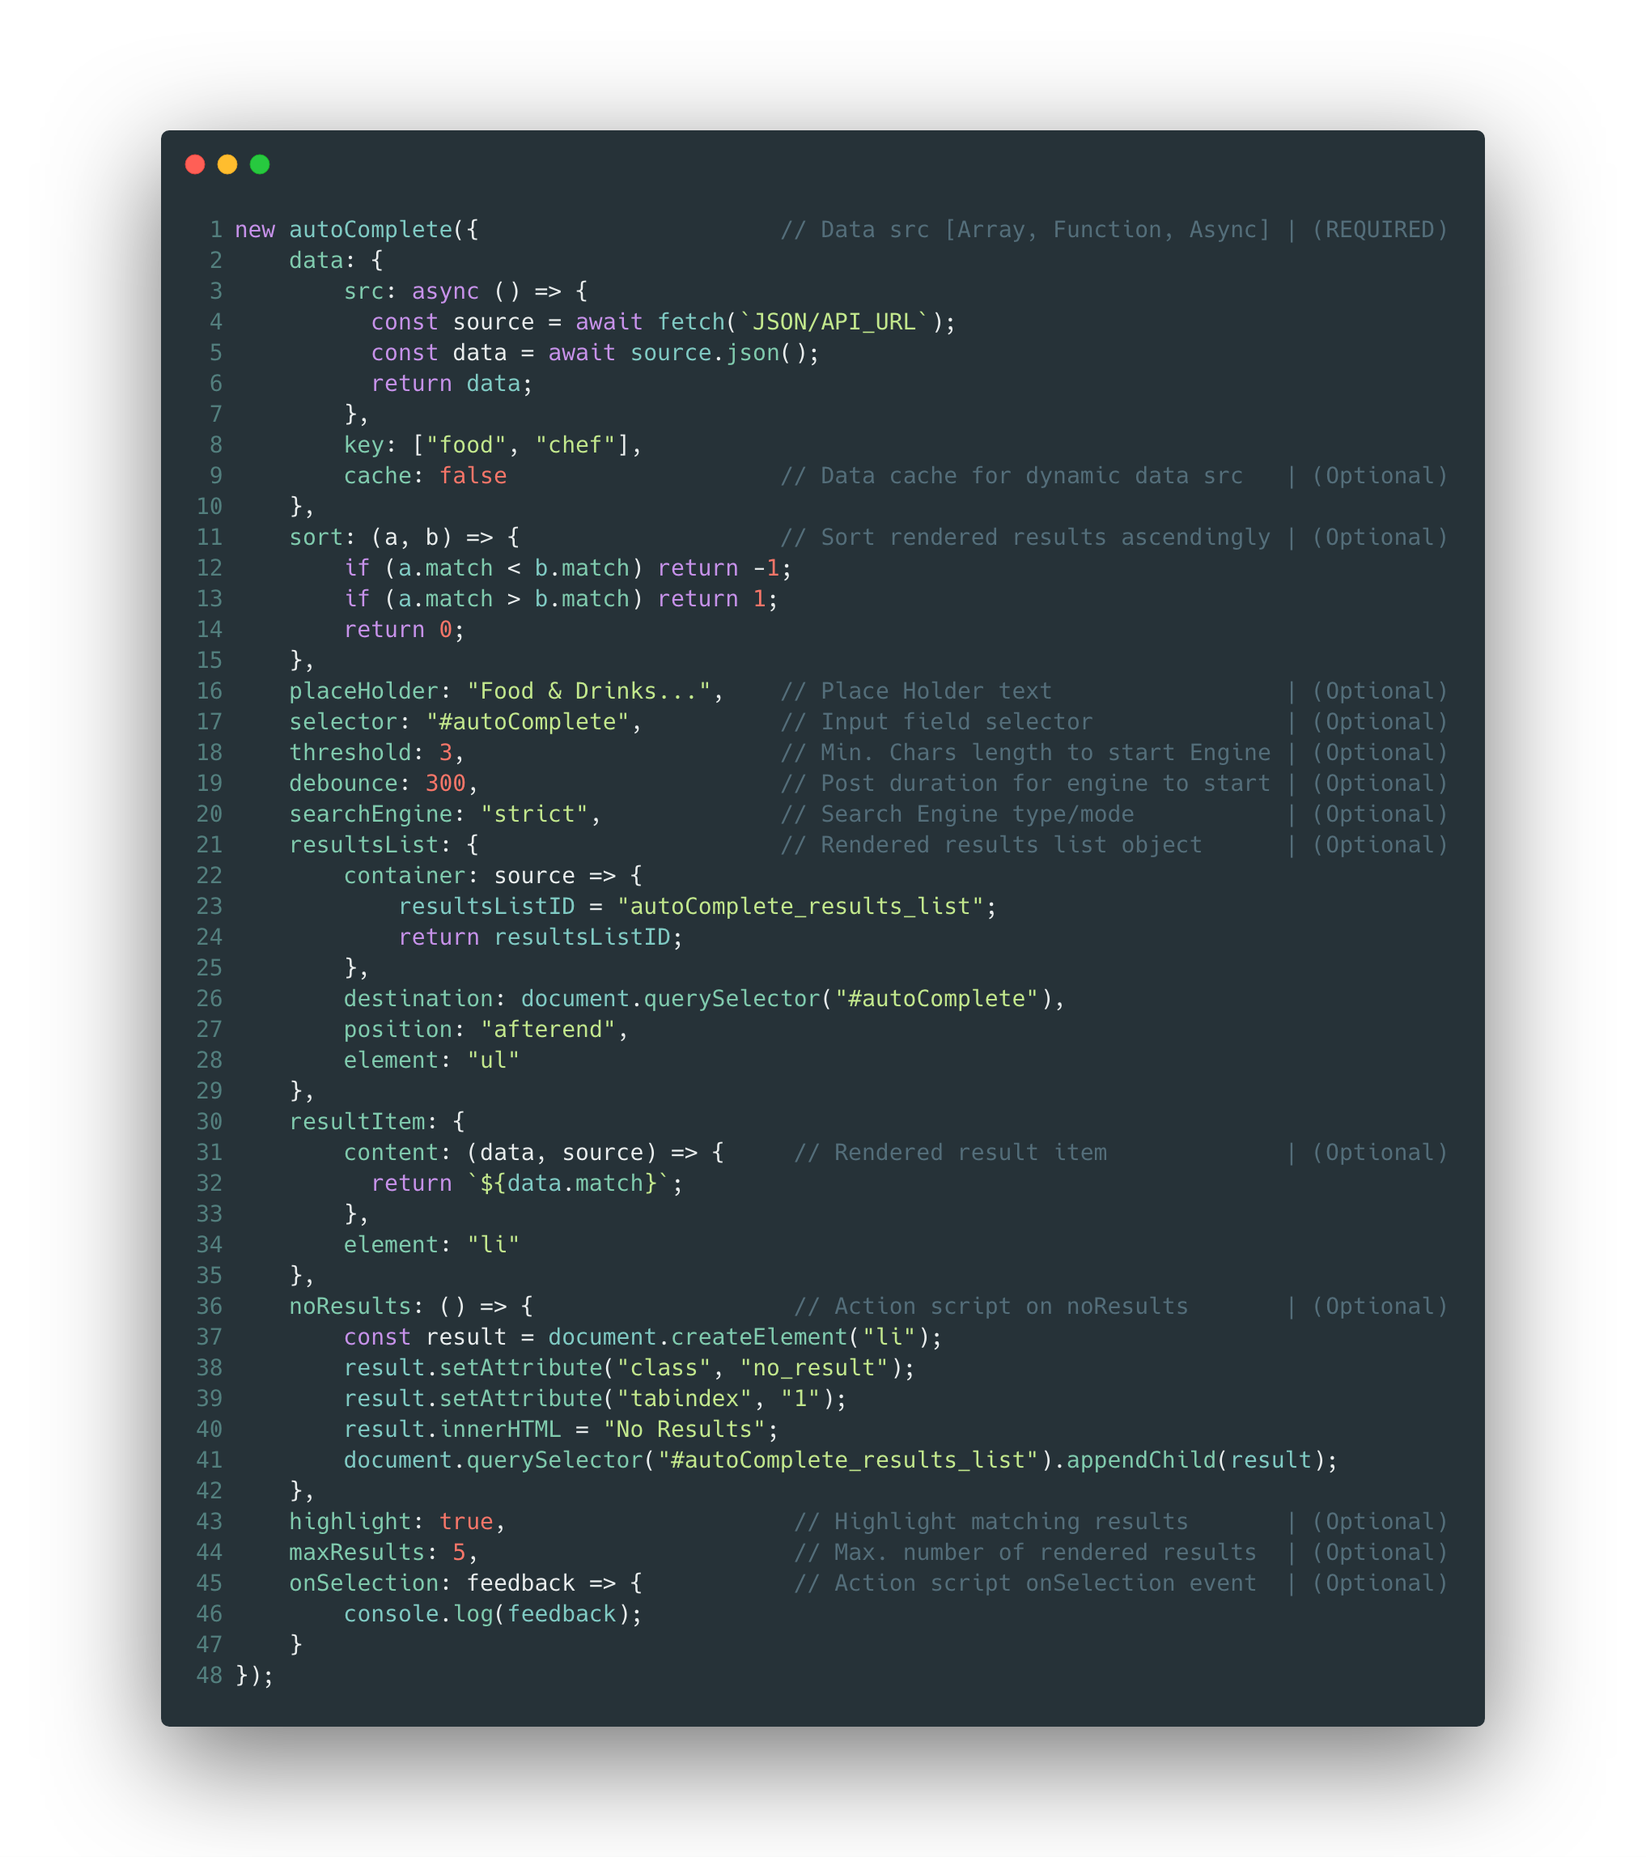
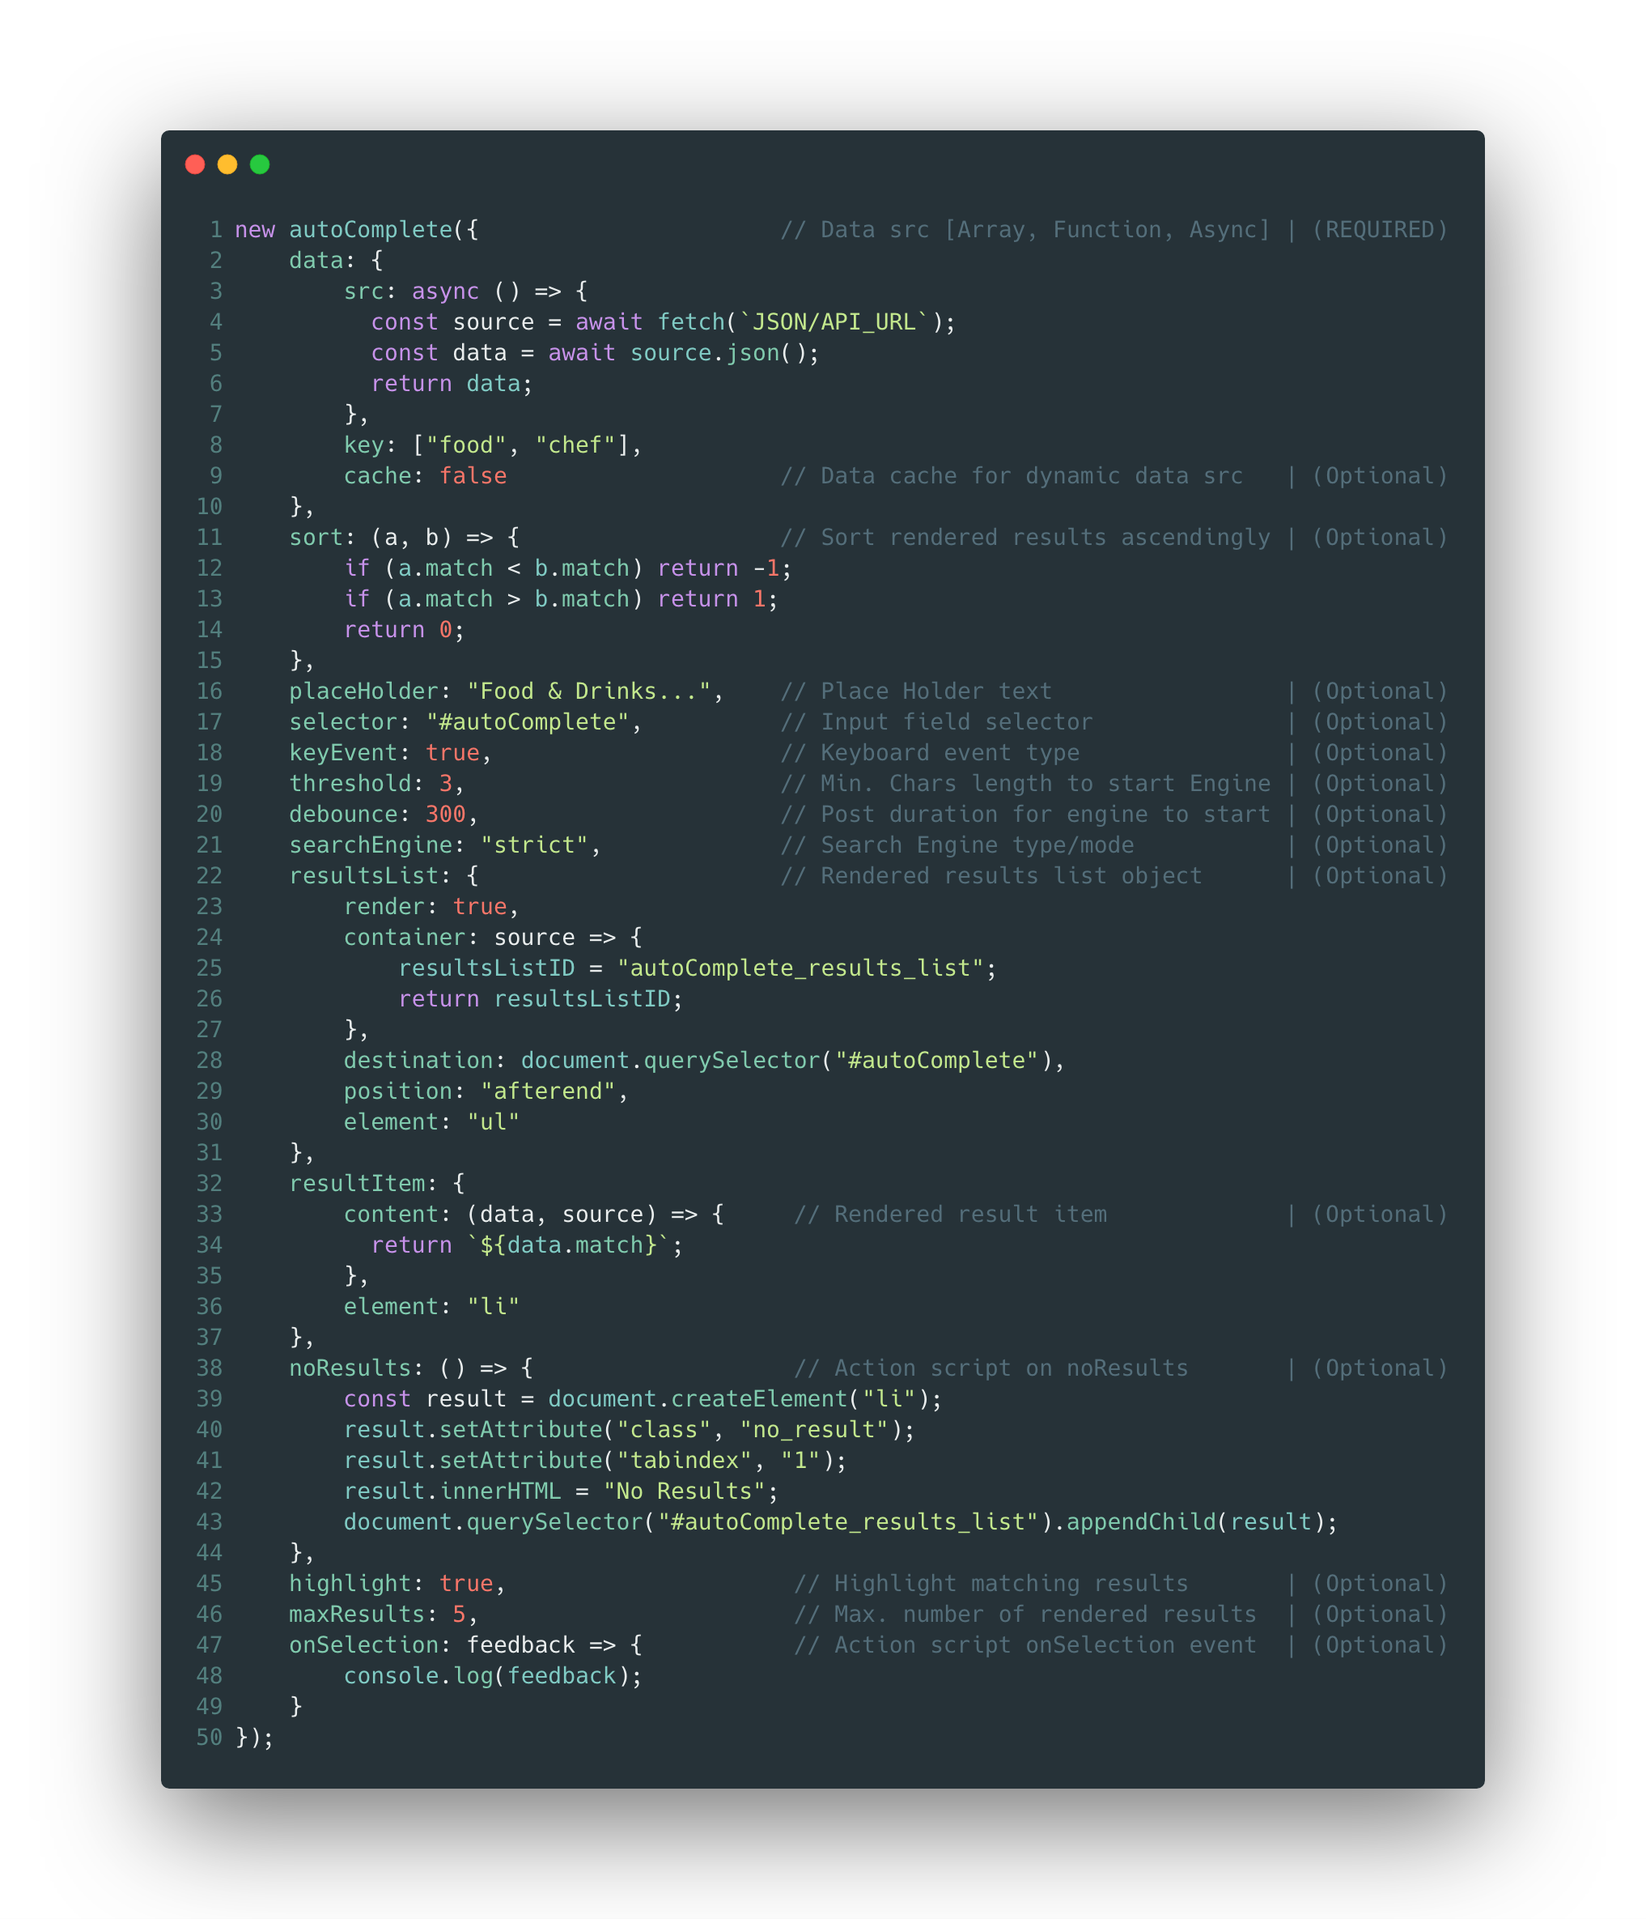
Version 6.0.0 => Preparations

diff --git a/docs/demo/index.html b/docs/demo/index.html
@@ -53,7 +53,7 @@
 		<meta name="msapplication-TileColor" content="#ffffff">
 		<meta name="msapplication-TileImage" content="/ms-icon-144x144.png">
 		<meta name="theme-color" content="#ffffff">
-		<link rel="stylesheet" type="text/css" media="screen" href="https://cdn.jsdelivr.net/npm/@tarekraafat/autocomplete.js@5.2.0/dist/css/autoComplete.min.css">
+		<link rel="stylesheet" type="text/css" media="screen" href="https://cdn.jsdelivr.net/npm/@tarekraafat/autocomplete.js@5.3.0/dist/css/autoComplete.min.css">
 		<link rel="stylesheet" type="text/css" media="screen" href="./css/main.css">
 		<link href="https://fonts.googleapis.com/css?family=PT+Sans" rel="stylesheet">
 	</head>
@@ -118,7 +118,7 @@
 				</div>
 			</footer>
 		</div>
-		<script src="https://cdn.jsdelivr.net/npm/@tarekraafat/autocomplete.js@5.2.0/dist/js/autoComplete.min.js"></script>
+		<script src="https://cdn.jsdelivr.net/npm/@tarekraafat/autocomplete.js@5.3.0/dist/js/autoComplete.min.js"></script>
 		<script src="./js/index.js"></script>
 	</body>
 

diff --git a/src/models/autoComplete.js b/src/models/autoComplete.js
@@ -20,7 +20,7 @@ export default class autoComplete {
     // Minimum duration for API calls debouncing
     this.debounce = config.debounce || 0;
     // Keyboard event type
-    this.keyBoardEvent = config.keyBoardEvent || "keyup";
+    this.keyEvent = config.keyEvent || "keydown";
     // Rendered results destination
     this.resultsList = {
       render: config.resultsList && config.resultsList.render ? config.resultsList.render : false,
@@ -299,7 +299,7 @@ export default class autoComplete {
     };
 
     // Input field handler fires an event onKeyup action
-    input.addEventListener(this.keyBoardEvent, debounce((event) => {
+    input.addEventListener(this.keyEvent, debounce((event) => {
       // If data src NOT to be cached
       // then we should invoke its function again
       if (!this.data.cache) {

diff --git a/dist/js/index.js b/dist/js/index.js
@@ -14,7 +14,7 @@ const autoCompletejs = new autoComplete({
       // Returns Fetched data
       return data;
     },
-    key: ["food", "cities", "animals"]
+    key: ["food", "cities", "animals"],
   },
   sort: (a, b) => {
     if (a.match < b.match) return -1;
@@ -23,7 +23,7 @@ const autoCompletejs = new autoComplete({
   },
   placeHolder: "Food & Drinks",
   selector: "#autoComplete",
-  keyBoardEvent: "keydown",
+  keyEvent: "keydown",
   threshold: 0,
   debounce: 0,
   searchEngine: "strict",

diff --git a/docs/README.md b/docs/README.md
@@ -7,7 +7,7 @@
 [![](https://data.jsdelivr.com/v1/package/gh/TarekRaafat/autoComplete.js/badge)](https://www.jsdelivr.com/package/gh/TarekRaafat/autoComplete.js)
 [![](https://data.jsdelivr.com/v1/package/npm/@tarekraafat/autocomplete.js/badge)](https://www.jsdelivr.com/package/npm/@tarekraafat/autocomplete.js)
 ![\[Zero Dependencies\]()](https://img.shields.io/badge/Dependencies-0-blue.svg)
-![\[Size\]()](https://img.shields.io/badge/Size-5%20KB-green.svg)
+![\[Size\]()](https://img.shields.io/badge/Size-6%20KB-green.svg)
 [![Open Source Love](https://badges.frapsoft.com/os/v1/open-source.svg?v=103)](https://github.com/TarekRaafat/autoComplete.js)
 
 <br>
@@ -15,7 +15,7 @@
 
 <h1>autoComplete.js</h1>
 
-> Simple autocomplete pure vanilla Javascript library. <a href="https://tarekraafat.github.io/autoComplete.js/demo/" target="\_blank">:rocket: Live Demo</a> **v5.2**
+> Simple autocomplete pure vanilla Javascript library. <a href="https://tarekraafat.github.io/autoComplete.js/demo/" target="\_blank">:rocket: Live Demo</a> **v6.0**
 
 autoComplete.js is a simple pure vanilla Javascript library that's progressively designed for speed, high versatility and seamless integration with wide range of projects & systems, made for users and developers in mind.
 
@@ -68,13 +68,13 @@ npm run build
 `CSS`
 
 ```html
-<link rel="stylesheet" href="https://cdn.jsdelivr.net/npm/@tarekraafat/autocomplete.js@5.2.0/dist/css/autoComplete.min.css">
+<link rel="stylesheet" href="https://cdn.jsdelivr.net/npm/@tarekraafat/autocomplete.js@6.0.0/dist/css/autoComplete.min.css">
 ```
 
 `JS`
 
 ```html
-<script src="https://cdn.jsdelivr.net/npm/@tarekraafat/autocomplete.js@5.2.0/dist/js/autoComplete.min.js"></script>
+<script src="https://cdn.jsdelivr.net/npm/@tarekraafat/autocomplete.js@6.0.0/dist/js/autoComplete.min.js"></script>
 ```
 
 -   <img src="https://cdn0.iconfinder.com/data/icons/HTML5/512/HTML_Logo.png" alt="HTML" width="40px"> HTML Local load
@@ -122,7 +122,7 @@ const autoComplete = require("@tarekraafat/autocomplete.js/dist/js/autoComplete"
 ```html
 <link rel="stylesheet" href="./css/autoComplete.css">
 OR
-<link rel="stylesheet" href="https://cdn.jsdelivr.net/npm/@tarekraafat/autocomplete.js@5.2.0/dist/css/autoComplete.min.css">
+<link rel="stylesheet" href="https://cdn.jsdelivr.net/npm/@tarekraafat/autocomplete.js@6.0.0/dist/css/autoComplete.min.css">
 ```
 
 2.  Assign the default `id` value `"autoComplete"` to the desired input field or use any custom `id/class` and configure the API selector accordingly in `Step 4`
@@ -137,7 +137,7 @@ OR
 <script src="./js/autoComplete.min.js"></script>
 <script src="./js/index.js"></script>
 OR
-<script src="https://cdn.jsdelivr.net/npm/@tarekraafat/autocomplete.js@5.2.0/dist/js/autoComplete.min.js"></script>
+<script src="https://cdn.jsdelivr.net/npm/@tarekraafat/autocomplete.js@6.0.0/dist/js/autoComplete.min.js"></script>
 <script src="./js/index.js"></script>
 ```
 
@@ -165,11 +165,13 @@ new autoComplete({
 	    return 0;
     },
 	placeHolder: "Food & Drinks...",	 // Place Holder text 				| (Optional)
-	selector: "#autoComplete",		   // Input field selector 			 | (Optional)
+    selector: "#autoComplete",		   // Input field selector 			 | (Optional)
+    keyEvent: "keydown",				 // Keyboard event type			   | (Optional)
 	threshold: 3,						// Min. Chars length to start Engine | (Optional)
 	debounce: 300,					   // Post duration for engine to start | (Optional)
 	searchEngine: "strict",			  // Search Engine type/mode 		  | (Optional)
-	resultsList: {					   // Rendered results list object 	 | (Optional)
+    resultsList: {					   // Rendered results list object 	 | (Optional)
+        render: true,
 		container: source => {
 			resultsListID = "food_List";
 			return resultsListID;
@@ -178,14 +180,21 @@ new autoComplete({
 		position: "afterend",
 		element: "ul"
 	},
+	maxResults: 5,						 // Max. number of rendered results | (Optional)
+	highlight: true,					   // Highlight matching results 	 | (Optional)
 	resultItem: {	  					// Rendered result item 		   | (Optional)
 		content: (data, source) => {
 			return `${data.match}`;
 		},
 		element: "li"
-	},
-	highlight: true,					   // Highlight matching results 	 | (Optional)
-	maxResults: 5,						 // Max. number of rendered results | (Optional)
+    },
+    noResults: () => {					 // Action script on noResults 	 | (Optional)
+        const result = document.createElement("li");
+        result.setAttribute("class", "no_result");
+        result.setAttribute("tabindex", "1");
+        result.innerHTML = "No Results";
+        document.querySelector("#autoComplete_results_list").appendChild(result);
+    },
 	onSelection: feedback => {			 // Action script onSelection event | (Optional)
 		console.log(feedback.selection.value.image_url);
 	}
@@ -202,10 +211,11 @@ new autoComplete({
 | `sort`         | Sort rendered results                                            | `Function`                                                                                                                                                                                                                                                                                                             | Blank / Empty **(Random Results)**                                                                         |
 | `placeHolder`  | Place Holder text                                                | `String`                                                                                                                                                                                                                                                                                                               | Blank / Empty                                                                                              |
 | `selector`     | Input field selector                                             | **-** `String` `id`/`class` <br>**OR**<br> **-** `Function` ( ) =>  `document.querySelector("")`                                                                                                                                                                                                                       | `"#autoComplete"`                                                                                          |
+| `keyEvent`     | Keyboard event type | **-** `String` <br> <br> `"keydown"` or `"keypress"` or `"keyup"` | `"keydown"` |
 | `threshold`    | Minimum characters length before engine starts rendering results | `Number`                                                                                                                                                                                                                                                                                                               | `0`                                                                                                        |
 | `debounce`    | Minimum duration after typing idle state for engine to kick in | `Number` <br> Milliseconds value <br> debounce: `300`         | `0`                                                                                                        |
 | `searchEngine` | Search Engine Type/Mode                                          | **-** `"strict"` lowerCase string<br>**OR**<br>**-** `"loose"` lowerCase string                                                                                                                                                                                                                                        | `"strict"`                                                                                                 |
-| `resultsList`  | Rendered results list destination,  position & element                    | **-** `Object` with 4 methods<br> 1- container: <br> `Function` (source) => `id`<br> 2- destination: `document.querySelector("#div")`<br> 3- position:<br> `"beforebegin"`, `"afterbegin"`, `"beforeend"`, `"afterend"` lowerCase string <br>**OR**<br>**-** `Function` ( ) => `{destination: "...", position: "..."}` <br> 4- element: <br> `"ul", "span", "div" or Custom`| `{container: (source) => { }, destination: document.querySelector("#autoComplete"), position: "afterend", element: "ul"}` |
+| `resultsList`  | Rendered results list destination,  position & element                    | **-** `Object` with 5 methods<br> 1- render: `Boolean` <br> 2- container: <br> `Function` (source) => `id`<br> 3- destination: `document.querySelector("#div")`<br> 4- position:<br> `"beforebegin"`, `"afterbegin"`, `"beforeend"`, `"afterend"` lowerCase string <br>**OR**<br>**-** `Function` ( ) => `{destination: "...", position: "..."}` <br> 5- element: <br> `"ul", "span", "div" or Custom`| `{container: (source) => { }, destination: document.querySelector("#autoComplete"), position: "afterend", element: "ul"}` |
 | `resultItem`   | Rendered result Item content & element                                          | **-** `Object` with 2 methods<br> 1- content: <br>**-** `Function` (data, source) => `String` <br> **-** `data.match` has to be used for **Highlighted** result <br> 2- element: <br> `"li", "span", "div" or Custom`                | `{content: (data, source) => data.match, element: "li"}`                                                                                               |
 | `noResults`   | Action script on noResults found | `Function` | No Action |
 | `highlight`    | Highlight matching results                                       | `Boolean`                                                                                                                                                                                                                                                                                                              | `false`                                                                                                    |
@@ -254,7 +264,7 @@ it with [autoComplete.js][so tag].
 
 * * *
 
-## 5. What's New in v5.2?
+## 5. What's New in v6.0?
 
 Check out <a href="#/releases?id=versioning">Releases</a> Information :sparkles:
 

diff --git a/README.md b/README.md
@@ -7,7 +7,7 @@
 [![](https://data.jsdelivr.com/v1/package/gh/TarekRaafat/autoComplete.js/badge)](https://www.jsdelivr.com/package/gh/TarekRaafat/autoComplete.js)
 [![](https://data.jsdelivr.com/v1/package/npm/@tarekraafat/autocomplete.js/badge)](https://www.jsdelivr.com/package/npm/@tarekraafat/autocomplete.js)
 ![\[Zero Dependencies\]()](https://img.shields.io/badge/Dependencies-0-blue.svg)
-![\[Size\]()](https://img.shields.io/badge/Size-5%20KB-green.svg)
+![\[Size\]()](https://img.shields.io/badge/Size-6%20KB-green.svg)
 [![Open Source Love](https://badges.frapsoft.com/os/v1/open-source.svg?v=103)](https://github.com/TarekRaafat/autoComplete.js)
 
 <br>
@@ -20,7 +20,7 @@
 <br>
 <br>
 
-> Simple autocomplete pure vanilla Javascript library. <a href="https://tarekraafat.github.io/autoComplete.js/demo/" target="\_blank">:rocket: Live Demo</a> **v5.2**
+> Simple autocomplete pure vanilla Javascript library. <a href="https://tarekraafat.github.io/autoComplete.js/demo/" target="\_blank">:rocket: Live Demo</a> **v6.0**
 
 autoComplete.js is a simple pure vanilla Javascript library that's progressively designed for speed, high versatility and seamless integration with wide range of projects & systems, made for users and developers in mind.
 
@@ -53,13 +53,13 @@ git clone https://github.com/TarekRaafat/autoComplete.js.git
 `CSS`
 
 ```html
-<link rel="stylesheet" href="https://cdn.jsdelivr.net/npm/@tarekraafat/autocomplete.js@5.2.0/dist/css/autoComplete.min.css">
+<link rel="stylesheet" href="https://cdn.jsdelivr.net/npm/@tarekraafat/autocomplete.js@6.0.0/dist/css/autoComplete.min.css">
 ```
 
 `JS`
 
 ```html
-<script src="https://cdn.jsdelivr.net/npm/@tarekraafat/autocomplete.js@5.2.0/dist/js/autoComplete.min.js"></script>
+<script src="https://cdn.jsdelivr.net/npm/@tarekraafat/autocomplete.js@6.0.0/dist/js/autoComplete.min.js"></script>
 ```
 
 -   <a href="https://www.npmjs.com/package/@tarekraafat/autocomplete.js">npm</a> install `(Node Package Manager)`

diff --git a/docs/_coverpage.md b/docs/_coverpage.md
@@ -2,7 +2,7 @@
 	<img src="./img/autoComplete.js.svg" alt= "autoComplete.js Logo" style="padding-bottom: 50px; width: 250px;">
 </a>
 
-> Simple autocomplete pure vanilla Javascript library. <a href="https://tarekraafat.github.io/autoComplete.js/demo/" target="\_blank">Live Demo</a> **v5.2**
+> Simple autocomplete pure vanilla Javascript library. <a href="https://tarekraafat.github.io/autoComplete.js/demo/" target="\_blank">Live Demo</a> **v6.0**
 
 autoComplete.js is a simple pure vanilla Javascript library that's progressively designed for speed,<br>high versatility and seamless integration with wide range of projects & systems.
 

diff --git a/docs/releases.md b/docs/releases.md
@@ -26,7 +26,12 @@ Release flags:
 
 ## Release Notes
 
-- v5.2.0 :sparkles:
+- v6.0.0 :sparkles:
+  - Get results from `eventEmitter` without rendering list through `resultsList.render` API
+  - EventEmitter name `type` changed to `autoComplete` `[Changed]`
+  - Added API for `keyBoardEvent`
+
+- v5.2.0
   - Added Event Emitter on `noResults` event
 
 - v5.1.2
